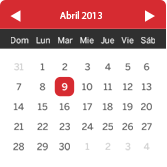
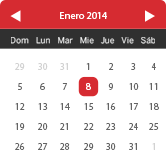
ajuste de fecha de calendario

diff --git a/widgets/max/w_10/index.html b/widgets/max/w_10/index.html
@@ -80,7 +80,7 @@
 								</table>
 							</div>
 							<div class="w10_HPG_personalizarIntervalo">
-								Intervalo personalizado
+								08/01/2014
 								<div>
 									<img src="../../img/iconos/calendario.png"/>
 								</div>
